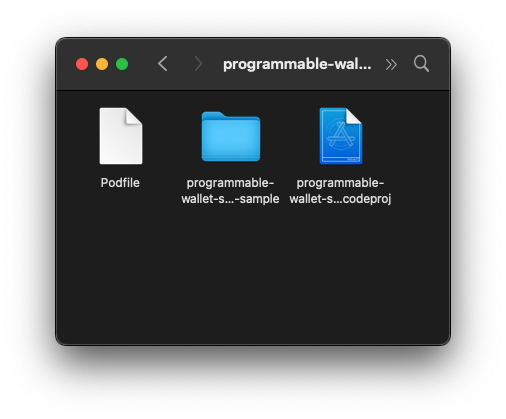
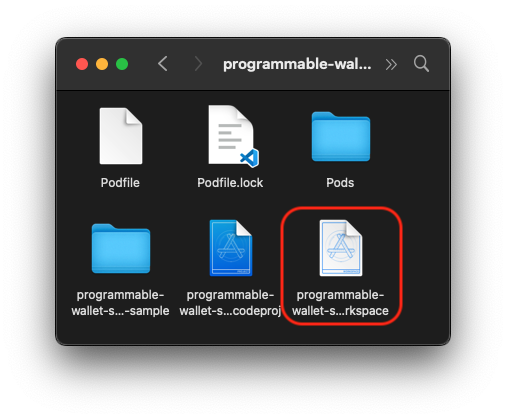
Update README.md (#2)

Changed region(s): [[0.3557, 0.2482, 0.8004, 0.7757], [0.1482, 0.6826, 0.3261, 0.7757], [0.1779, 0.5274, 0.2964, 0.6516]]

diff --git a/README.md b/README.md
@@ -1,7 +1,7 @@
 # programmable-wallet-sdk-ios-sample
 This is a sample project for iOS beginners to integrate with CircleProgrammableWalletSDK.
 
-- Category
+- Bookmark
   - [Requirements](#requirements)
   - [Installation](#installation)
   - [Run the project](#run-the-project)
@@ -18,7 +18,7 @@ This is a sample project for iOS beginners to integrate with CircleProgrammableW
 ### SSH key
 Shared [SSH key](https://share.1password.com/s#bzIRVj59HVFKzKj1LbZToCDh10DyPVlRKTmhFbVqmuo) for PW SDK Hackathon
 
-<img src="readme_images/screenshot_1.png" width="300"/>
+<img src="readme_images/screenshot_1.png" width="400"/>
 
 1. `$ vi ~/.ssh/{your SSH key name}`, then paste the private key
 2. Open your `~/.ssh/config` file, then modify the file to contain the following lines.
@@ -39,7 +39,10 @@ Shared [SSH key](https://share.1password.com/s#bzIRVj59HVFKzKj1LbZToCDh10DyPVlRK
 3. Run `$ pod install` to install `CircleProgrammableWalletSDK`
 4. Run `$ pod update` to update `CircleProgrammableWalletSDK` (Optional)
 5. Open the `programmable-wallet-sdk-ios-sample.xcworkspace` in xcode
-<img src="readme_images/screenshot_3.png" width="400"/>
+<img src="readme_images/screenshot_2.png" width="400"/>
 
 ## Run the project
 
+1. Select a simulator as run target
+2. press `Run` button (Command + R)
+![image](readme_images/screenshot_3.png)
